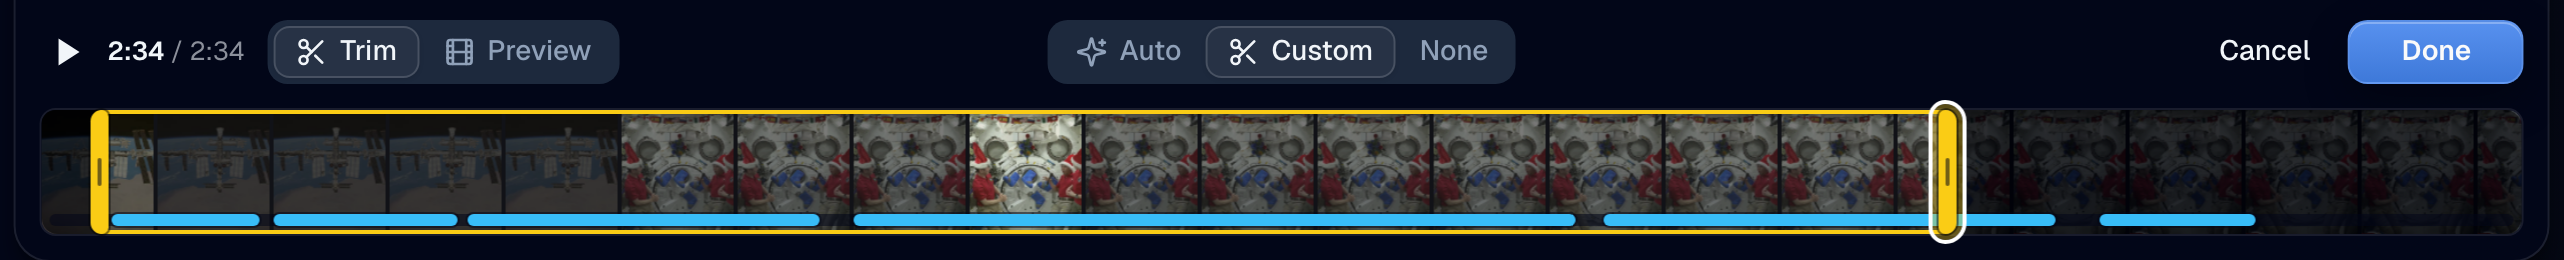
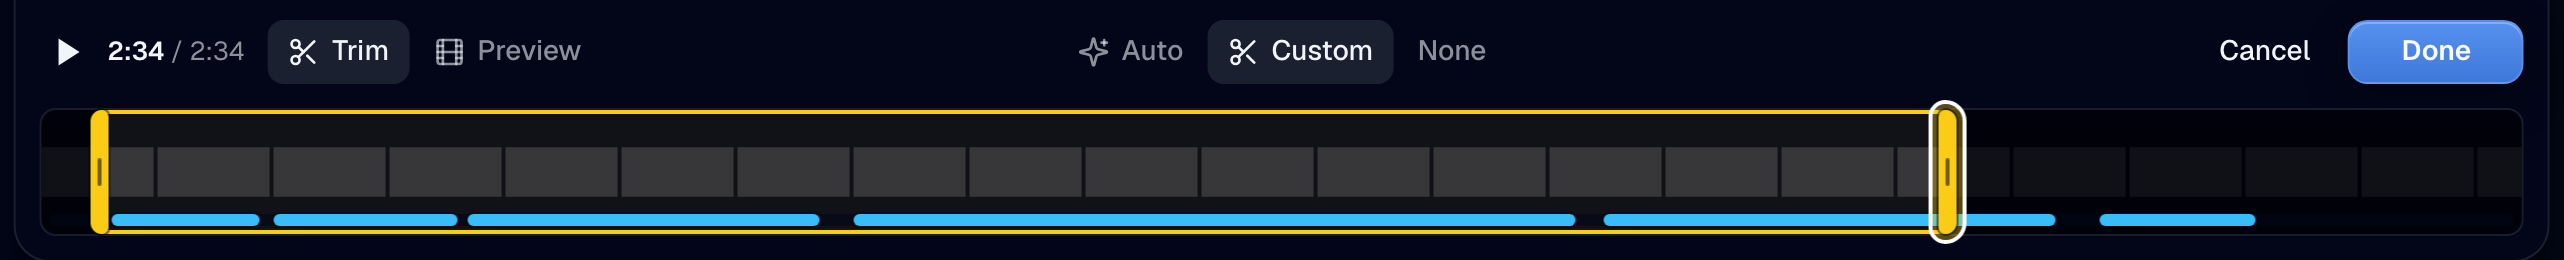
Publish edit-video-deck (20261006T163424Z)

diff --git a/edit-video-deck/styles.css b/edit-video-deck/styles.css
@@ -727,3 +727,13 @@ html.dark .segmented button[aria-pressed="true"] { border-color: var(--input); b
 /* round 7: no overview hairline; Preview is the plain strip plus hold-to-zoom */
 .deck .overview { display: none !important; }
 .deck .ptag { display: inline-flex; }
+/* round 8: the dock's choices use the app's pressed ghost buttons (Button variant="ghost" size="sm" aria-pressed on the
+   media surface, as VideoPreviewPicker's Preview type group does): no track, the chosen one filled with --cg-active. */
+.segmented, html.dark .segmented { height: auto; gap: 2px; padding: 0; border-radius: 0; background: transparent; }
+.segmented button, html.dark .segmented button { height: 32px; gap: 6px; padding: 0 10px; border: 0; border-radius: min(var(--radius-md), 12px); background: transparent; box-shadow: none; font-size: 14px; font-weight: 500; color: var(--cg-ink-dim); }
+.segmented button:hover, html.dark .segmented button:hover { background: var(--cg-btn-hover); color: var(--cg-ink); }
+.segmented button[aria-pressed="true"], html.dark .segmented button[aria-pressed="true"] { background: var(--cg-active); border: 0; color: var(--cg-ink); box-shadow: none; }
+.segmented button svg { width: 16px; height: 16px; }
+.segmented button:disabled { opacity: 0.38; background: transparent; }
+.segmented.xs button { height: 26px; padding: 0 8px; font-size: 12.5px; }
+.stepper { background: transparent; }

diff --git a/index.html b/index.html
@@ -1,6 +1,7 @@
 <!doctype html><meta charset="utf-8"><title>Clarity design previews</title>
 <style>body{font-family:system-ui,sans-serif;max-width:40rem;margin:4rem auto;padding:0 1rem;color:#0f172a}a{color:#2563eb}li{margin:.4rem 0}</style>
 <h1>Clarity design previews</h1>
+<li><a href="./edit-video-deck/">Edit Video modal: Deck console, app-style controls</a> <small>20261006T163424Z</small></li>
 <li><a href="./edit-video-deck/">Edit Video modal: Deck console, simpler Preview</a> <small>20261006T155934Z</small></li>
 <li><a href="./logo-once/">Add your logo once: first page logo becomes the default (PR #1033)</a> <small>20261006T155135Z</small></li>
 <li><a href="./edit-video-deck/">Edit Video modal: Deck console, T + flat zoom</a> <small>20261006T154925Z</small></li>
